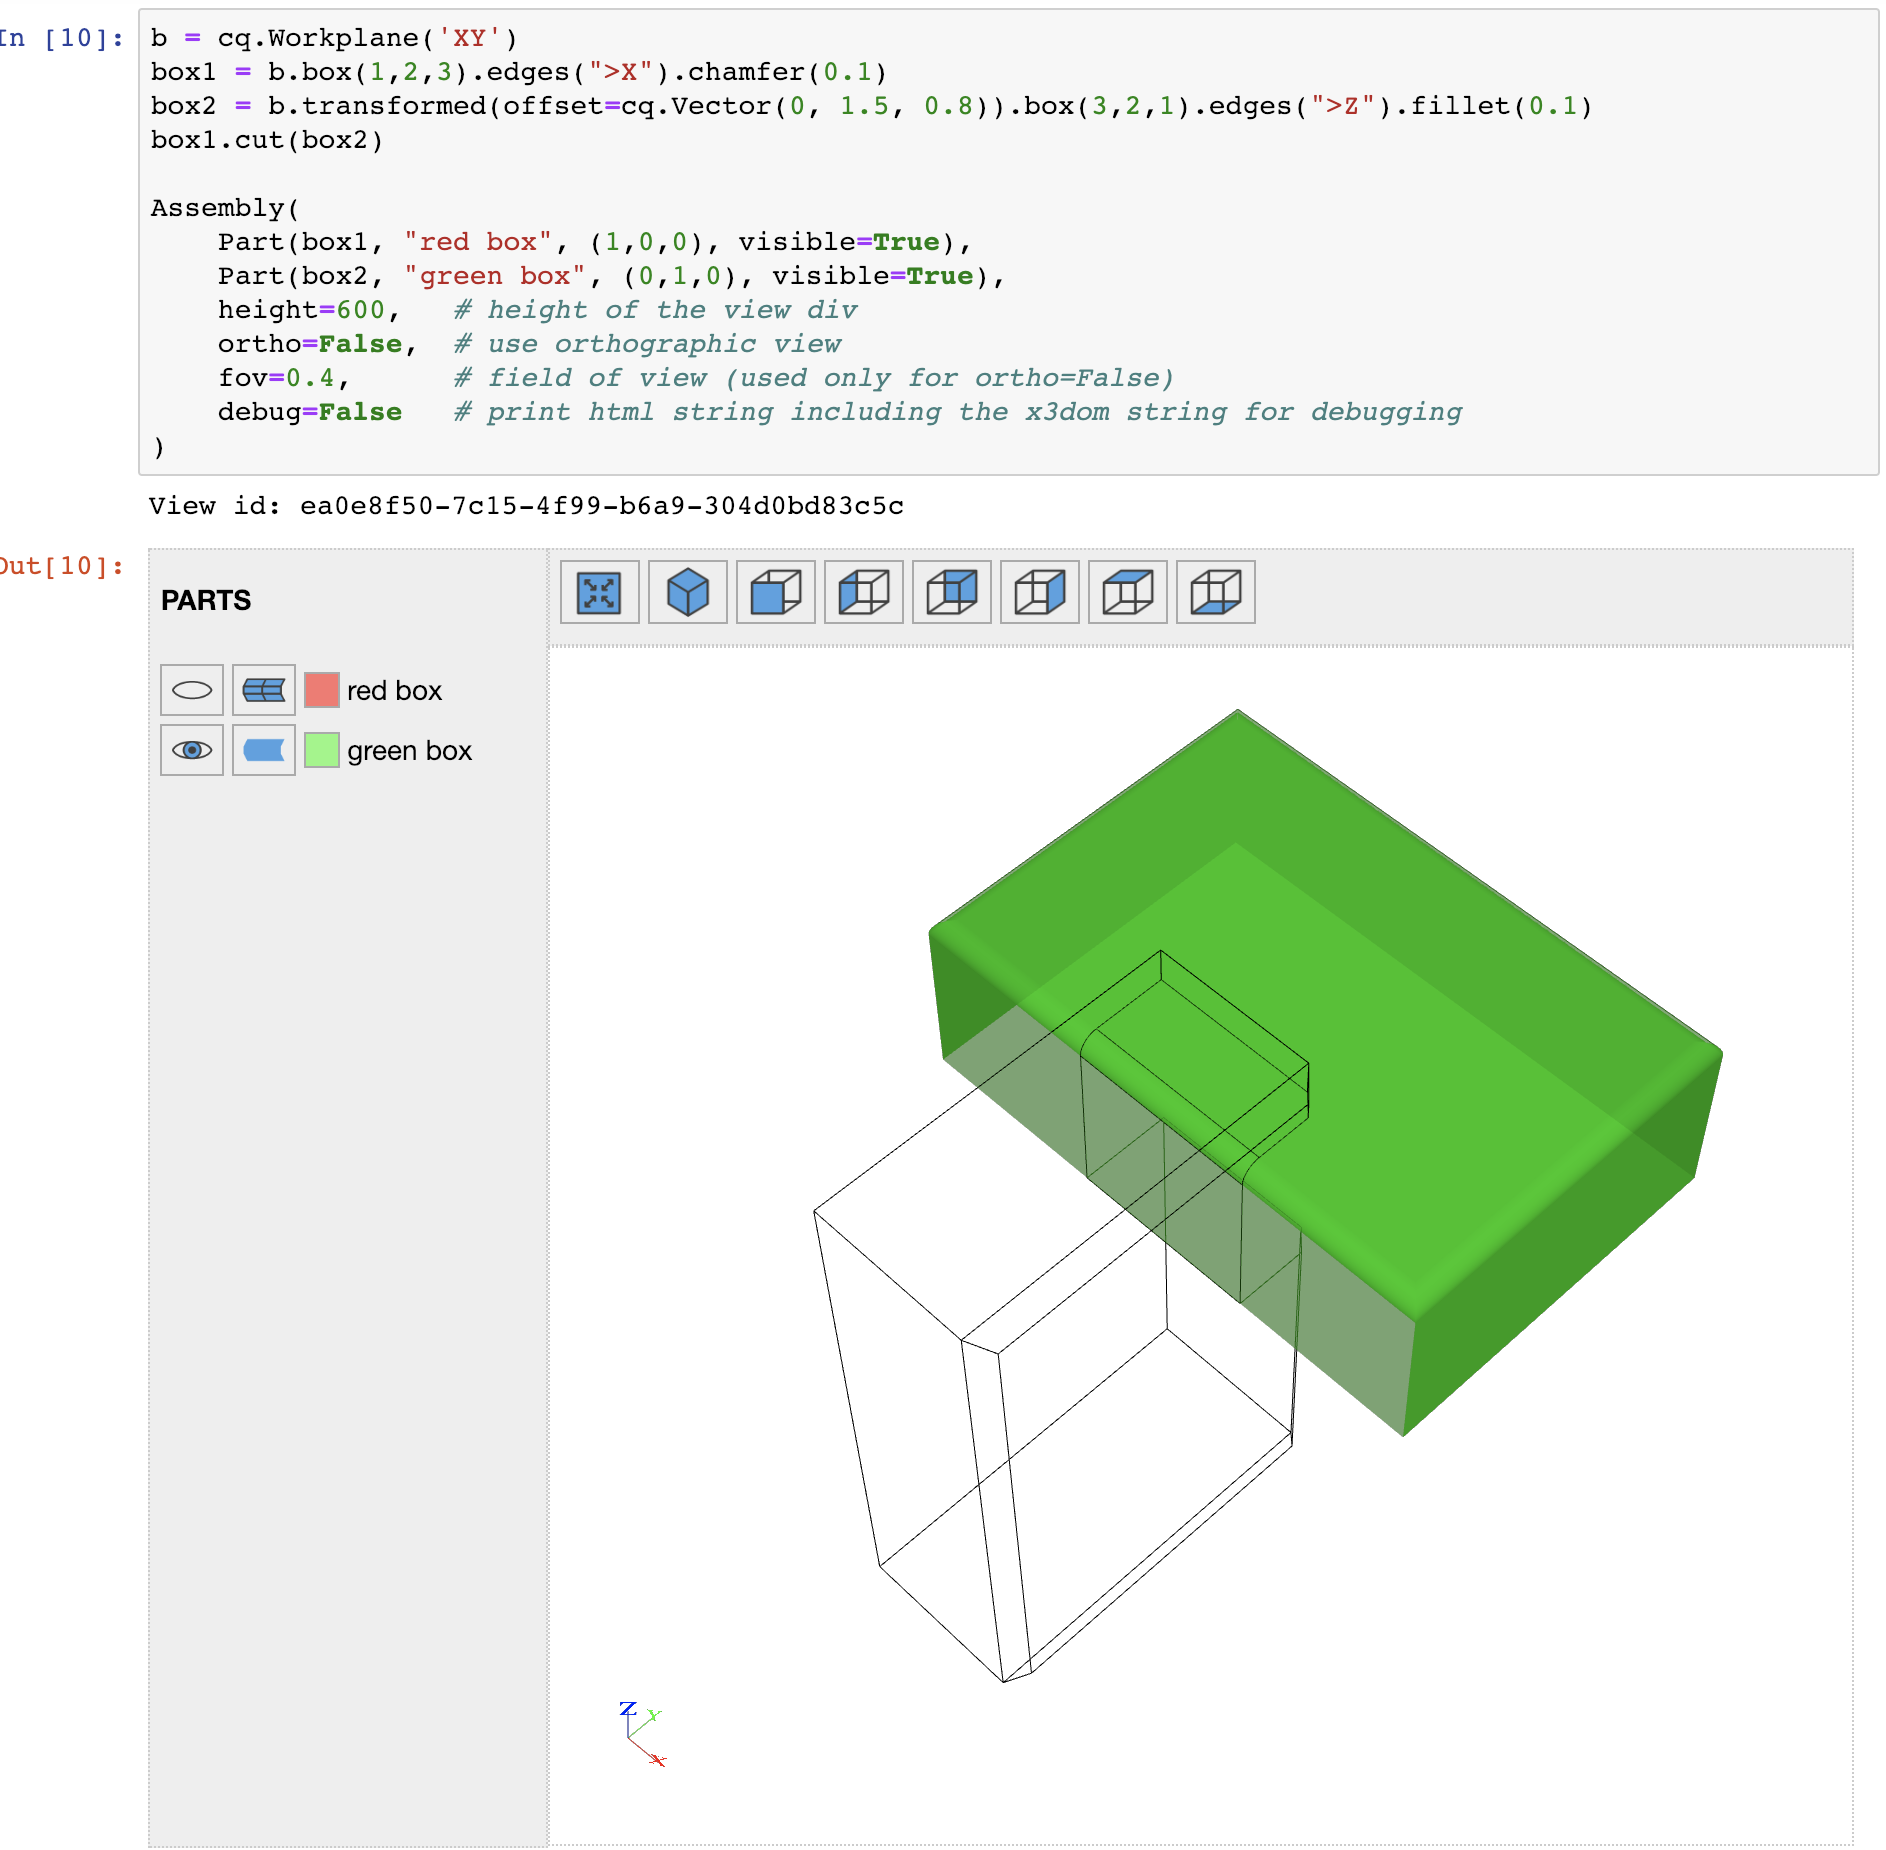
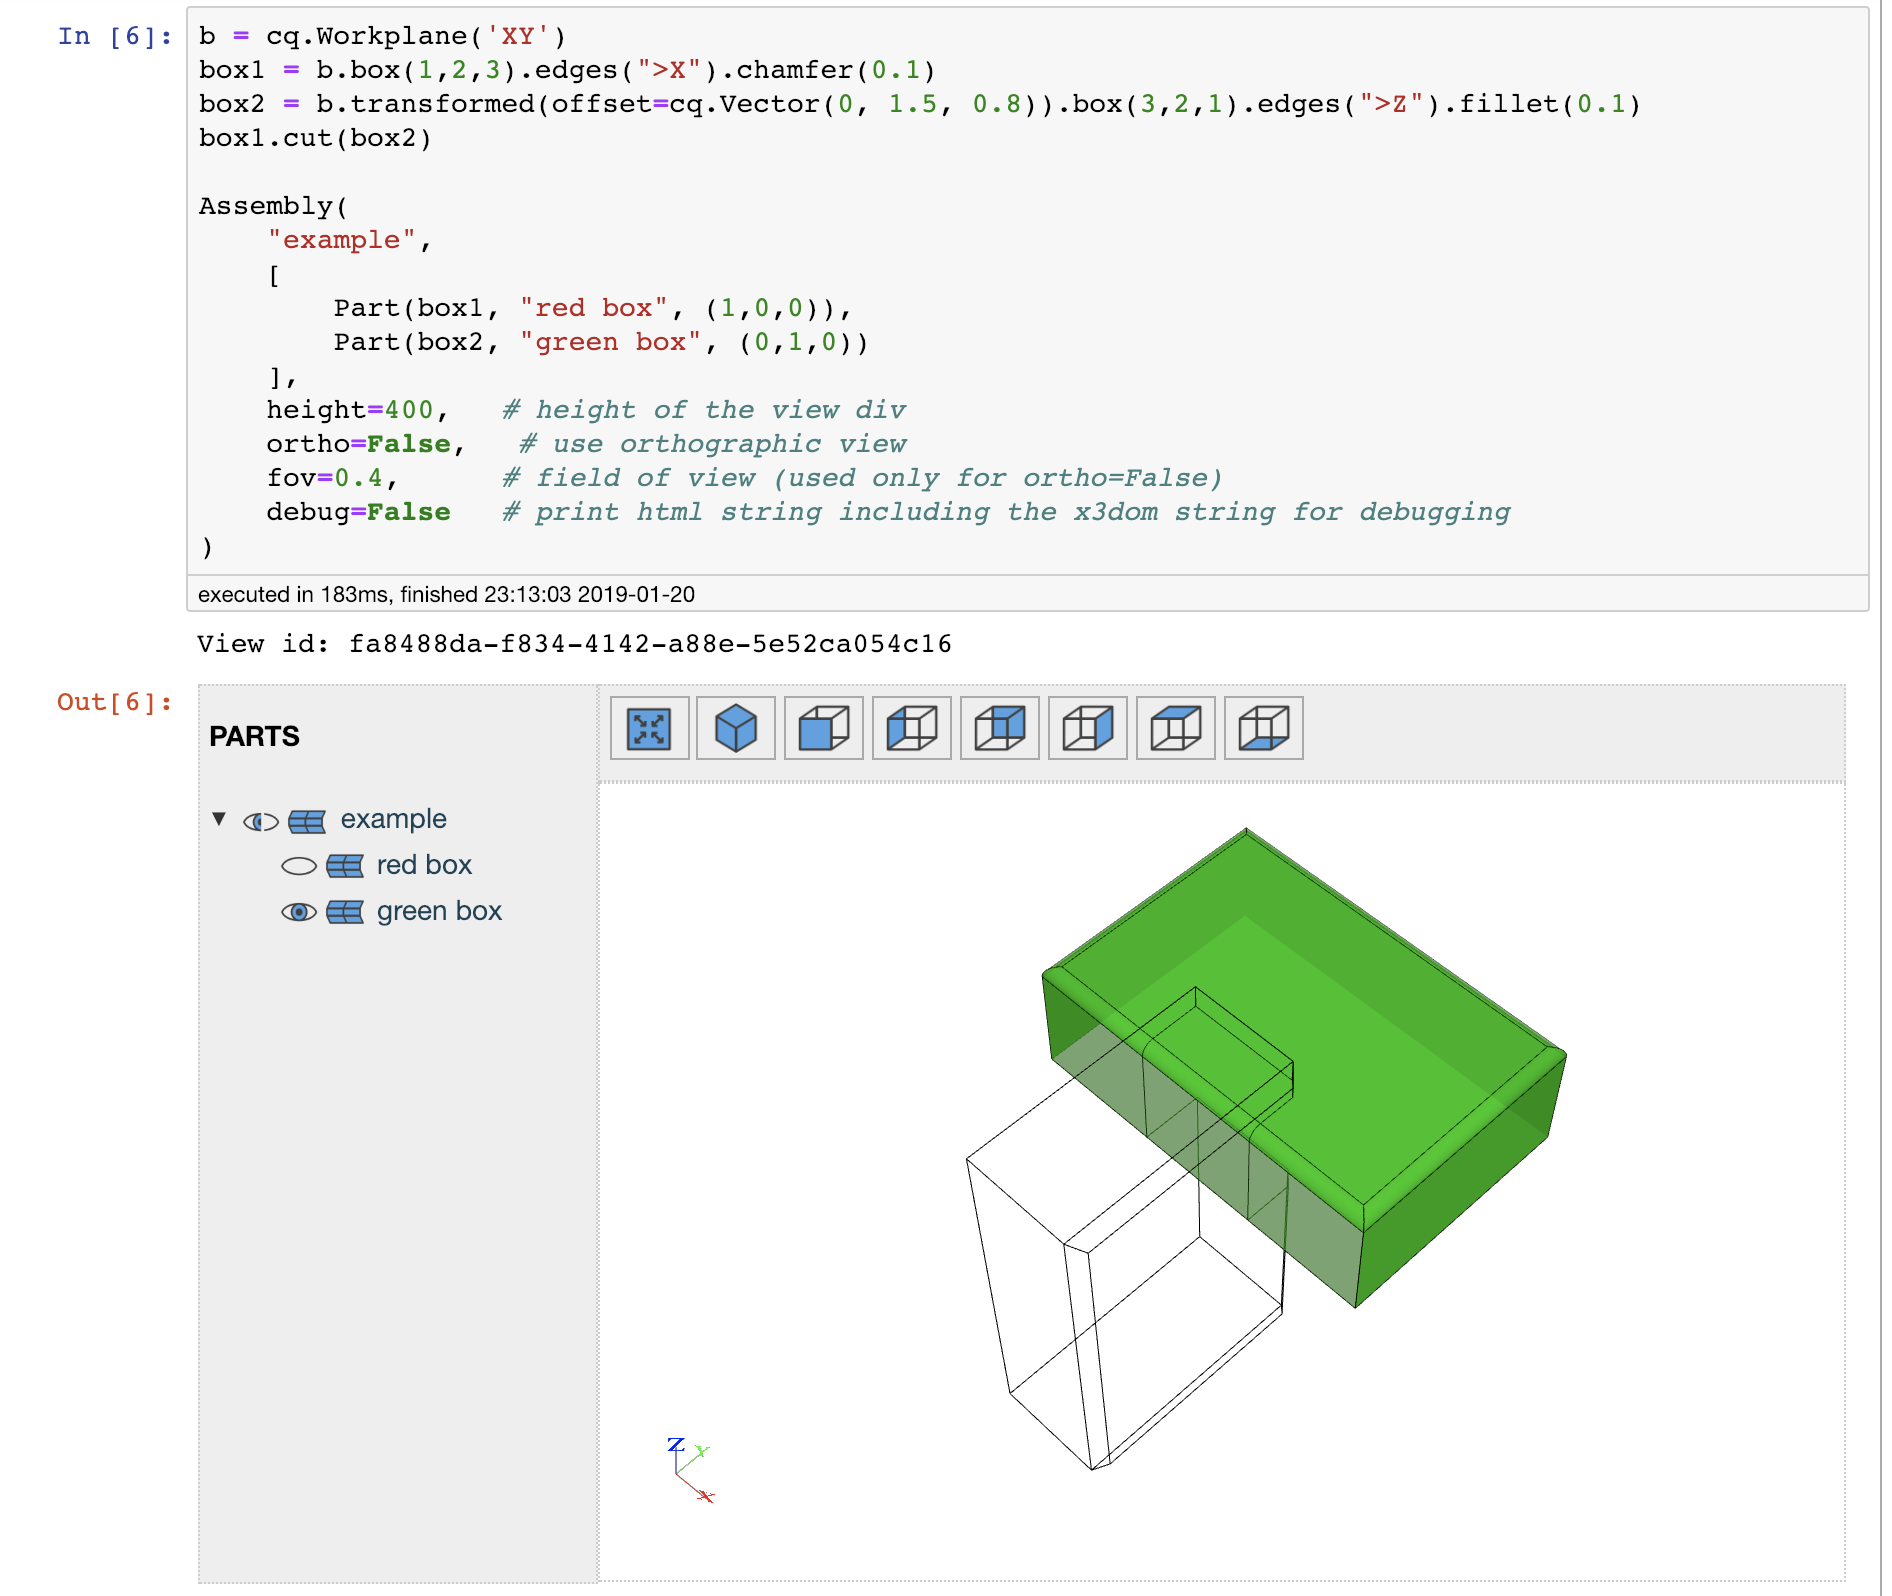
adapted to hierarchical tree

diff --git a/Readme.md b/Readme.md
@@ -53,12 +53,14 @@ box2 = b.transformed(offset=cq.Vector(0, 1.5, 0.8)).box(3,2,1).edges(">Z").fille
 box1.cut(box2)
 
 Assembly(
-    Part(box1, "red box", (1,0,0), visible=True), 
-    Part(box2, "green box", (0,1,0), visible=False),
-
-    height=600,   # height of the view div
+    "example",
+    [
+        Part(box1, "red box", (1,0,0)),
+        Part(box2, "green box", (0,1,0))
+    ],
+    height=400,   # height of the view div
     ortho=True,   # use orthographic view
-    fov=0.1,      # field of view (used only for ortho=False)
+    fov=0.4,      # field of view (used only for ortho=False)
     debug=False   # print html string including the x3dom string for debugging
 )
 ```
@@ -66,21 +68,21 @@ Assembly(
 - **Normal view**:
 
   - **Isometric**:
-  
+
       ![Isometric view](./screenshots/isometric-non-ortho.png)
-  
+
   - **Side**:
-  
+
       ![Side View](./screenshots/side-non-ortho.png)
 
 - **Orthographic View**:
 
   - **Isometric**:
-  
+
       ![Isometric view](./screenshots/isometric-ortho.png)
-  
+
   - **Side**:
-  
+
       ![Side View](./screenshots/side-ortho.png)
 
 
@@ -96,7 +98,7 @@ Assembly(
 
 - Component Editor for x3dom
 
-    The Component Editor for x3dom ([https://github.com/x3dom/component-editor](https://github.com/x3dom/component-editor)) is available under the MIT license ([https://github.com/x3dom/component-editor/blob/master/LICENSE](https://github.com/x3dom/component-editor/blob/master/LICENSE)): 
+    The Component Editor for x3dom ([https://github.com/x3dom/component-editor](https://github.com/x3dom/component-editor)) is available under the MIT license ([https://github.com/x3dom/component-editor/blob/master/LICENSE](https://github.com/x3dom/component-editor/blob/master/LICENSE)):
 
     - the file `js/jquery.viewConnector.js` is downloaded from [https://github.com/x3dom/component-editor/blob/master/static/js/jquery.viewConnector.js](https://github.com/x3dom/component-editor/blob/master/static/js/jquery.viewConnector.js) and used unchanged
 
